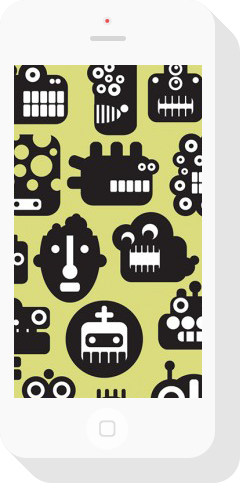
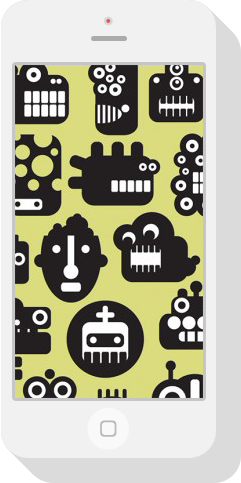
fix: change phones pictures

diff --git a/singolo1.html b/singolo1.html
@@ -29,10 +29,9 @@
             class="phone-one"
             src="assets/images/phone-one.png"
             alt="phone-one"
-            width="240"
+            width="241"
             height="483"
           />
-          <div class="border-one"></div>
           <img
             class="phone-two"
             src="assets/images/phone-two.png"
@@ -40,7 +39,6 @@
             width="484"
             height="240"
           />
-          <div class="border-two"></div>
           <button class="arrow-right"></button>
         </div>
       </section>
